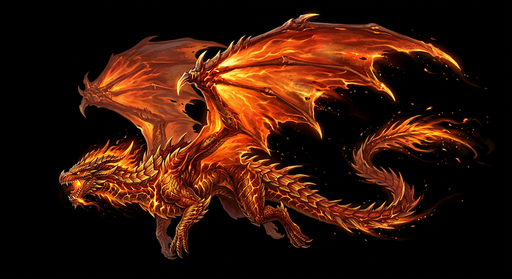
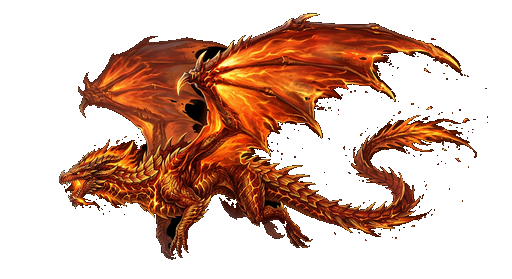
v28: naga & semburan api transparan asli (hapus latar hitam)

diff --git a/js/app.js b/js/app.js
@@ -2,18 +2,18 @@
 // TheofKing — bootstrap aplikasi: onboarding, home, lobby,
 // leaderboard, profil, tema, dan orkestrasi Game + Net.
 // ============================================================
-import { store, saveStats, validateProfile, PRESET_AVATARS, getLeaderboard, myGlobalRank, avatarGradientFor, initialsFor, makePlayerId, addFriend, removeFriend } from './store.js?v=27';
-import { rankForStars, rankProgress, RANKS, STARS_PER_RANK } from './ranks.js?v=27';
-import { sfx, unlockAudio, soundEnabled, setSoundEnabled } from './sound.js?v=27';
-import { $, $$, esc, openModal, closeModal, toast, confirmDialog, initConfirm, copyText, avatarHTML, starRowHTML, renderMiniBoard, fmtTimeAgo, showVsSplash, nickHTML, borderOverlayHTML, confettiBurst } from './ui.js?v=27';
-import { Net, peerErrorMessage, arenaCodeFor, ARENA_BUCKET_MS } from './net.js?v=27';
-import { Server, isServerOnline, isServerReadonly, setServerReadonly, checkServer, openMatchSocket } from './server.js?v=27';
-import { Game } from './game.js?v=27';
-import { preloadPieces } from './pieces.js?v=27';
-import { AI_LEVELS, AI_NAMES, chooseMove } from './ai.js?v=27';
-import { COUNTRIES, countryByCode, flagEmoji, flagFor } from './countries.js?v=27';
-import { SKINS, skinById, applySkin } from './skins.js?v=27';
-import { BORDERS, AVATARS, NICKFX, borderById, avatarById, avatarImg, nickFxById } from './cosmetics.js?v=27';
+import { store, saveStats, validateProfile, PRESET_AVATARS, getLeaderboard, myGlobalRank, avatarGradientFor, initialsFor, makePlayerId, addFriend, removeFriend } from './store.js?v=28';
+import { rankForStars, rankProgress, RANKS, STARS_PER_RANK } from './ranks.js?v=28';
+import { sfx, unlockAudio, soundEnabled, setSoundEnabled } from './sound.js?v=28';
+import { $, $$, esc, openModal, closeModal, toast, confirmDialog, initConfirm, copyText, avatarHTML, starRowHTML, renderMiniBoard, fmtTimeAgo, showVsSplash, nickHTML, borderOverlayHTML, confettiBurst } from './ui.js?v=28';
+import { Net, peerErrorMessage, arenaCodeFor, ARENA_BUCKET_MS } from './net.js?v=28';
+import { Server, isServerOnline, isServerReadonly, setServerReadonly, checkServer, openMatchSocket } from './server.js?v=28';
+import { Game } from './game.js?v=28';
+import { preloadPieces } from './pieces.js?v=28';
+import { AI_LEVELS, AI_NAMES, chooseMove } from './ai.js?v=28';
+import { COUNTRIES, countryByCode, flagEmoji, flagFor } from './countries.js?v=28';
+import { SKINS, skinById, applySkin } from './skins.js?v=28';
+import { BORDERS, AVATARS, NICKFX, borderById, avatarById, avatarImg, nickFxById } from './cosmetics.js?v=28';
 
 // Penanda untuk skrip diagnostik boot (lihat index.html)
 window.__TOK_MODULE_OK = true;

diff --git a/index.html b/index.html
@@ -90,7 +90,7 @@
   <link rel="preconnect" href="https://fonts.googleapis.com" />
   <link rel="preconnect" href="https://fonts.gstatic.com" crossorigin />
   <link href="https://fonts.googleapis.com/css2?family=Cinzel:wght@600;700;800&family=Inter:wght@400;500;600;700;800&display=swap" rel="stylesheet" />
-  <link rel="stylesheet" href="css/style.css?v=27" />
+  <link rel="stylesheet" href="css/style.css?v=28" />
 </head>
 <body>
   <noscript><div style="position:fixed;inset:0;z-index:99999;display:flex;align-items:center;justify-content:center;background:#0b0e17;color:#f2f4fa;font-family:sans-serif;padding:20px;text-align:center">Aktifkan JavaScript di browser untuk bermain TheofKing. Tanpa JavaScript, semua tombol tidak akan berfungsi.</div></noscript>
@@ -253,8 +253,8 @@
             <div id="board" class="board skin-wood"></div>
             <div class="board-fx" id="board-fx" aria-hidden="true">
               <div class="dragon-fly"><div class="dragon-inner">
-                <img class="dragon-img" src="assets/fx/dragon.png" alt="" draggable="false" />
-                <img class="dragon-fire" src="assets/fx/fire.png" alt="" draggable="false" />
+                <img class="dragon-img" src="assets/fx/dragon.png?v=28" alt="" draggable="false" />
+                <img class="dragon-fire" src="assets/fx/fire.png?v=28" alt="" draggable="false" />
               </div></div>
               <span class="ember e1"></span><span class="ember e2"></span><span class="ember e3"></span><span class="ember e4"></span>
             </div>
@@ -757,7 +757,7 @@
   <div id="toast-root" class="toast-root"></div>
   <canvas id="confetti"></canvas>
 
-  <script src="js/vendor/peerjs.min.js?v=27"></script>
-  <script type="module" src="js/app.js?v=27"></script>
+  <script src="js/vendor/peerjs.min.js?v=28"></script>
+  <script type="module" src="js/app.js?v=28"></script>
 </body>
 </html>

diff --git a/js/game.js b/js/game.js
@@ -2,19 +2,19 @@
 // Pengatur permainan: aturan, jam catur, AI, UI papan & panel,
 // rating bintang, chat online, resign/remis/rematch.
 // ============================================================
-import { Chess } from './vendor/chess.js?v=27';
-import { Board } from './board.js?v=27';
-import { chooseMove, evaluateFor, AI_NAMES } from './ai.js?v=27';
-import { sfx } from './sound.js?v=27';
-import { store, saveStats, pushRecent } from './store.js?v=27';
-import { applyResult, rankForStars } from './ranks.js?v=27';
+import { Chess } from './vendor/chess.js?v=28';
+import { Board } from './board.js?v=28';
+import { chooseMove, evaluateFor, AI_NAMES } from './ai.js?v=28';
+import { sfx } from './sound.js?v=28';
+import { store, saveStats, pushRecent } from './store.js?v=28';
+import { applyResult, rankForStars } from './ranks.js?v=28';
 import {
   $, avatarHTML, fmtClock, toast, openModal, closeModal,
   confettiBurst, esc, confirmDialog, showRankUp, hideRankUp,
-} from './ui.js?v=27';
-import { pieceSrc } from './pieces.js?v=27';
-import { flagFor } from './countries.js?v=27';
-import { applySkin, skinById } from './skins.js?v=27';
+} from './ui.js?v=28';
+import { pieceSrc } from './pieces.js?v=28';
+import { flagFor } from './countries.js?v=28';
+import { applySkin, skinById } from './skins.js?v=28';
 
 const COLOR_NAME = { w: 'Putih', b: 'Hitam' };
 

diff --git a/js/ui.js b/js/ui.js
@@ -1,11 +1,11 @@
 // ============================================================
 // Helper UI: toast, modal, confetti, avatar, format waktu, dialog.
 // ============================================================
-import { avatarGradientFor, initialsFor } from './store.js?v=27';
-import { rankForStars, rankProgress } from './ranks.js?v=27';
-import { sfx } from './sound.js?v=27';
-import { flagFor } from './countries.js?v=27';
-import { borderImg, borderFx } from './cosmetics.js?v=27';
+import { avatarGradientFor, initialsFor } from './store.js?v=28';
+import { rankForStars, rankProgress } from './ranks.js?v=28';
+import { sfx } from './sound.js?v=28';
+import { flagFor } from './countries.js?v=28';
+import { borderImg, borderFx } from './cosmetics.js?v=28';
 
 export const $ = (sel, root = document) => root.querySelector(sel);
 export const $$ = (sel, root = document) => [...root.querySelectorAll(sel)];

diff --git a/js/ai.js b/js/ai.js
@@ -2,7 +2,7 @@
 // AI catur: negamax + alpha-beta pruning + piece-square tables.
 // 3 level: easy (kedalaman 1 + ngawur), medium (2), hard (3).
 // ============================================================
-import { Chess } from './vendor/chess.js?v=27';
+import { Chess } from './vendor/chess.js?v=28';
 
 const VAL = { p: 100, n: 320, b: 330, r: 500, q: 900, k: 0 };
 const MATE = 100000;

diff --git a/css/style.css b/css/style.css
@@ -1252,7 +1252,7 @@ body { touch-action: manipulation; }
   0%, 100% { translate: 0 0; }
   50% { translate: 0 -10px; }
 }
-.dragon-img, .dragon-fire { display: block; width: 100%; mix-blend-mode: screen; }
+.dragon-img, .dragon-fire { display: block; width: 100%; }
 .dragon-fire {
   position: absolute; left: -72%; top: 6%; width: 95%;
   transform-origin: right center; opacity: 0;

diff --git a/js/sound.js b/js/sound.js
@@ -1,7 +1,7 @@
 // ============================================================
 // Efek suara hasil sintesis WebAudio (tanpa file audio).
 // ============================================================
-import { store } from './store.js?v=27';
+import { store } from './store.js?v=28';
 
 let ctx = null;
 let noiseBuf = null;

diff --git a/js/store.js b/js/store.js
@@ -2,7 +2,7 @@
 // Penyimpanan lokal (localStorage): profil, statistik, setting,
 // leaderboard, dan riwayat permainan.
 // ============================================================
-import { rankForStars } from './ranks.js?v=27';
+import { rankForStars } from './ranks.js?v=28';
 
 const PREFIX = 'tok.v1.';
 

diff --git a/js/board.js b/js/board.js
@@ -2,7 +2,7 @@
 // Papan catur interaktif: klik + drag & drop, animasi geser,
 // highlight, promosi, koordinat, balik papan.
 // ============================================================
-import { pieceSrc } from './pieces.js?v=27';
+import { pieceSrc } from './pieces.js?v=28';
 
 const FILES = 'abcdefgh';
 
